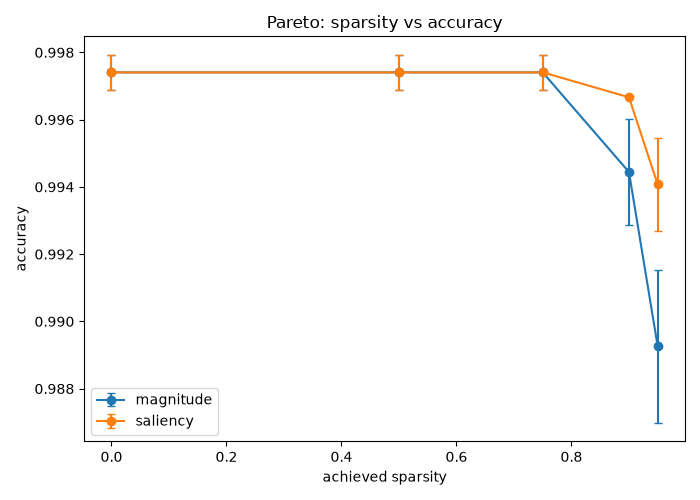
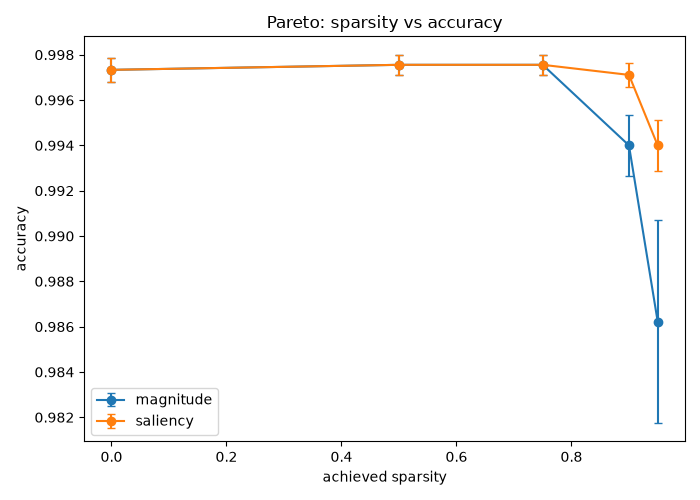
feat(train): updated training results

diff --git a/train/run_dst_comparison.py b/train/run_dst_comparison.py
@@ -24,10 +24,10 @@ RESULTS_DIR = os.path.join(os.path.dirname(__file__), "..", "results")
 def run_sweep(
     sparsities=(0.9, 0.95),
     seeds=(0, 1, 2, 3, 4),
-    epochs=200,
+    epochs=100,
     n_per_class=300,
     batch_size=32,
-    lr=0.01,
+    lr=1e-3,
     prune_start_step=400,
     prune_every=20,
     exchange_fraction=0.1,
@@ -87,6 +87,46 @@ def summarize(records: list[dict]) -> list[dict]:
     return summary
 
 
+def load_summary(results_dir: str = RESULTS_DIR) -> list[dict]:
+    """Read a previously written dst_comparison.csv back into summary rows."""
+    path = os.path.join(results_dir, "dst_comparison.csv")
+    with open(path, newline="") as f:
+        rows = list(csv.DictReader(f))
+    return [
+        {
+            "regrowth": r["regrowth"] == "True",
+            "target_sparsity": float(r["target_sparsity"]),
+            "mean_achieved_sparsity": float(r["mean_achieved_sparsity"]),
+            "mean_accuracy": float(r["mean_accuracy"]),
+            "std_accuracy": float(r["std_accuracy"]),
+            "n_seeds": int(r["n_seeds"]),
+        }
+        for r in rows
+    ]
+
+
+def plot_summary(summary: list[dict], results_dir: str = RESULTS_DIR):
+    """Render dst_comparison.png from summary rows; upper error bars are
+    clipped at the accuracy ceiling of 1.0.
+    """
+    os.makedirs(results_dir, exist_ok=True)
+    fig, ax = plt.subplots(figsize=(7, 5))
+    for regrowth in sorted({s["regrowth"] for s in summary}):
+        rows = sorted((s for s in summary if s["regrowth"] == regrowth), key=lambda r: r["mean_achieved_sparsity"])
+        x = [r["mean_achieved_sparsity"] for r in rows]
+        y = [r["mean_accuracy"] for r in rows]
+        std = [r["std_accuracy"] for r in rows]
+        lower = [min(s, m) for s, m in zip(std, y)]
+        upper = [min(s, 1.0 - m) for s, m in zip(std, y)]
+        label = "with regrowth (DST)" if regrowth else "without regrowth (plain saliency)"
+        ax.errorbar(x, y, yerr=[lower, upper], marker="o", capsize=3, label=label)
+    ax.set(xlabel="achieved sparsity", ylabel="accuracy", title="DST (regrowth) vs. plain pruning")
+    ax.legend()
+    fig.tight_layout()
+    fig.savefig(os.path.join(results_dir, "dst_comparison.png"))
+    plt.close(fig)
+
+
 def main(results_dir: str = RESULTS_DIR, **sweep_kwargs):
     records = run_sweep(**sweep_kwargs)
     summary = summarize(records)
@@ -102,22 +142,23 @@ def main(results_dir: str = RESULTS_DIR, **sweep_kwargs):
         writer.writeheader()
         writer.writerows(summary)
 
-    fig, ax = plt.subplots(figsize=(7, 5))
-    for regrowth in sorted({s["regrowth"] for s in summary}):
-        rows = sorted((s for s in summary if s["regrowth"] == regrowth), key=lambda r: r["mean_achieved_sparsity"])
-        x = [r["mean_achieved_sparsity"] for r in rows]
-        y = [r["mean_accuracy"] for r in rows]
-        yerr = [r["std_accuracy"] for r in rows]
-        label = "with regrowth (DST)" if regrowth else "without regrowth (plain saliency)"
-        ax.errorbar(x, y, yerr=yerr, marker="o", capsize=3, label=label)
-    ax.set(xlabel="achieved sparsity", ylabel="accuracy", title="DST (regrowth) vs. plain pruning")
-    ax.legend()
-    fig.tight_layout()
-    fig.savefig(os.path.join(results_dir, "dst_comparison.png"))
-    plt.close(fig)
+    plot_summary(summary, results_dir)
 
     return records, summary
 
 
 if __name__ == "__main__":
-    main()
+    import argparse
+
+    parser = argparse.ArgumentParser(description=__doc__)
+    parser.add_argument(
+        "--plot-only",
+        action="store_true",
+        help="redraw dst_comparison.png from existing dst_comparison.csv without rerunning the sweep",
+    )
+    args = parser.parse_args()
+
+    if args.plot_only:
+        plot_summary(load_summary())
+    else:
+        main()

diff --git a/train/run_structured_vs_unstructured.py b/train/run_structured_vs_unstructured.py
@@ -24,11 +24,11 @@ RESULTS_DIR = os.path.join(os.path.dirname(__file__), "..", "results")
 
 def run_sweep(
     sparsities=(0.5, 0.7, 0.85),
-    seeds=(0, 1, 2),
-    epochs=200,
+    seeds=(0, 1, 2, 3, 4),
+    epochs=100,
     n_per_class=300,
     batch_size=32,
-    lr=0.01,
+    lr=1e-3,
     prune_start_step=400,
     prune_every=20,
 ) -> list[dict]:

diff --git a/train/run_pareto_sweep.py b/train/run_pareto_sweep.py
@@ -24,7 +24,7 @@ RESULTS_DIR = os.path.join(os.path.dirname(__file__), "..", "results")
 def run_sweep(
     criteria=("magnitude", "saliency"),
     sparsities=(0.0, 0.5, 0.75, 0.9, 0.95),
-    seeds=(0, 1, 2),
+    seeds=(0, 1, 2, 3, 4),
     epochs=100,
     n_per_class=300,
     batch_size=32,